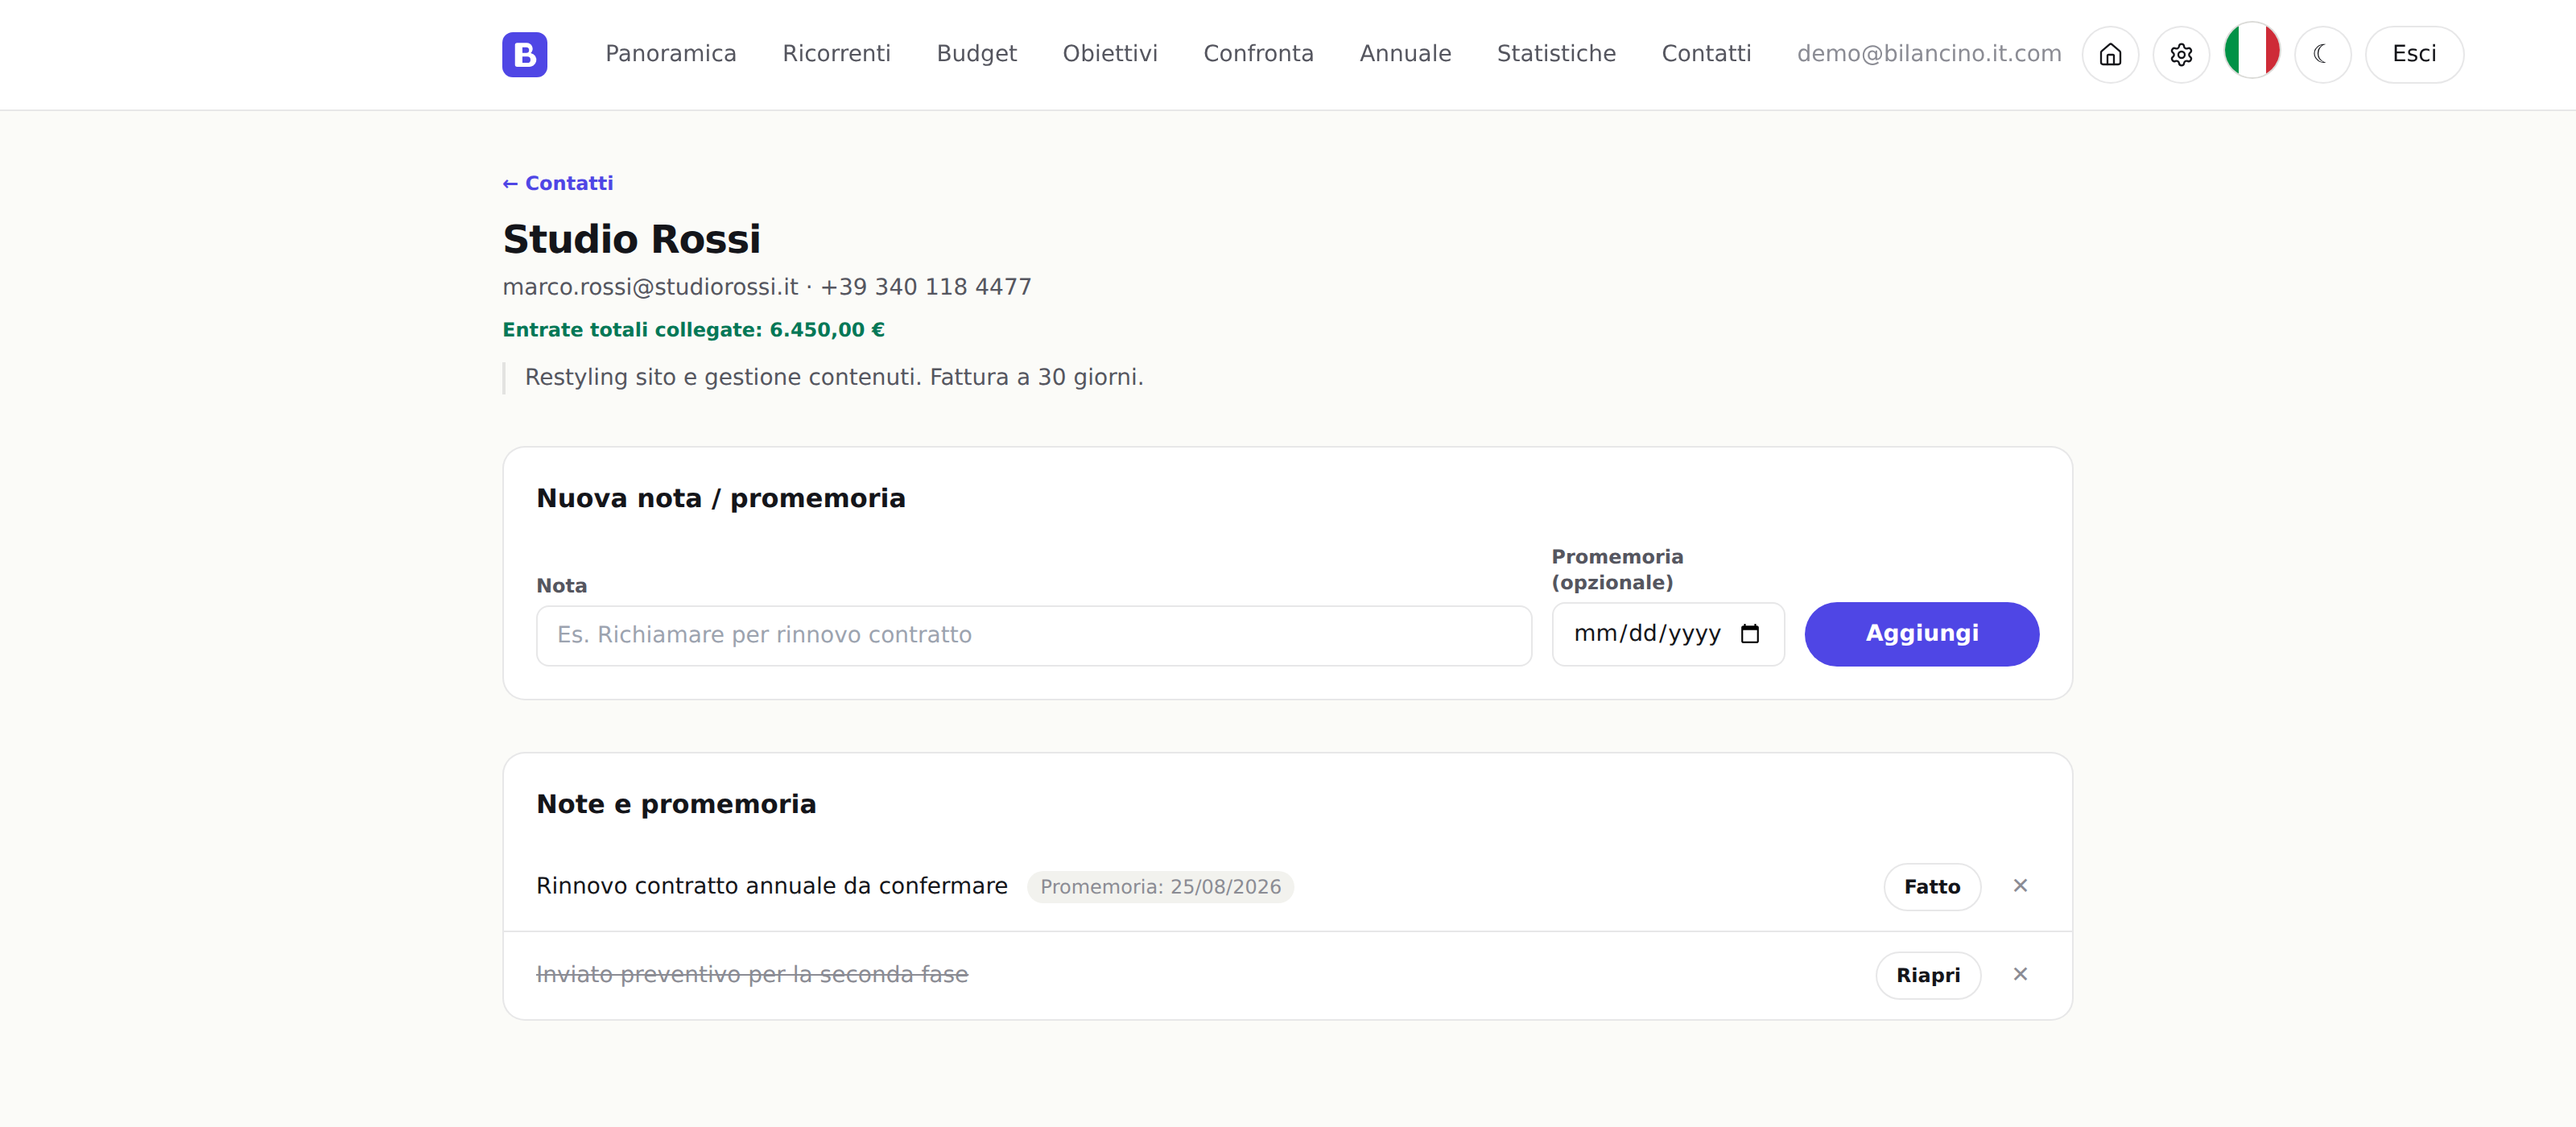
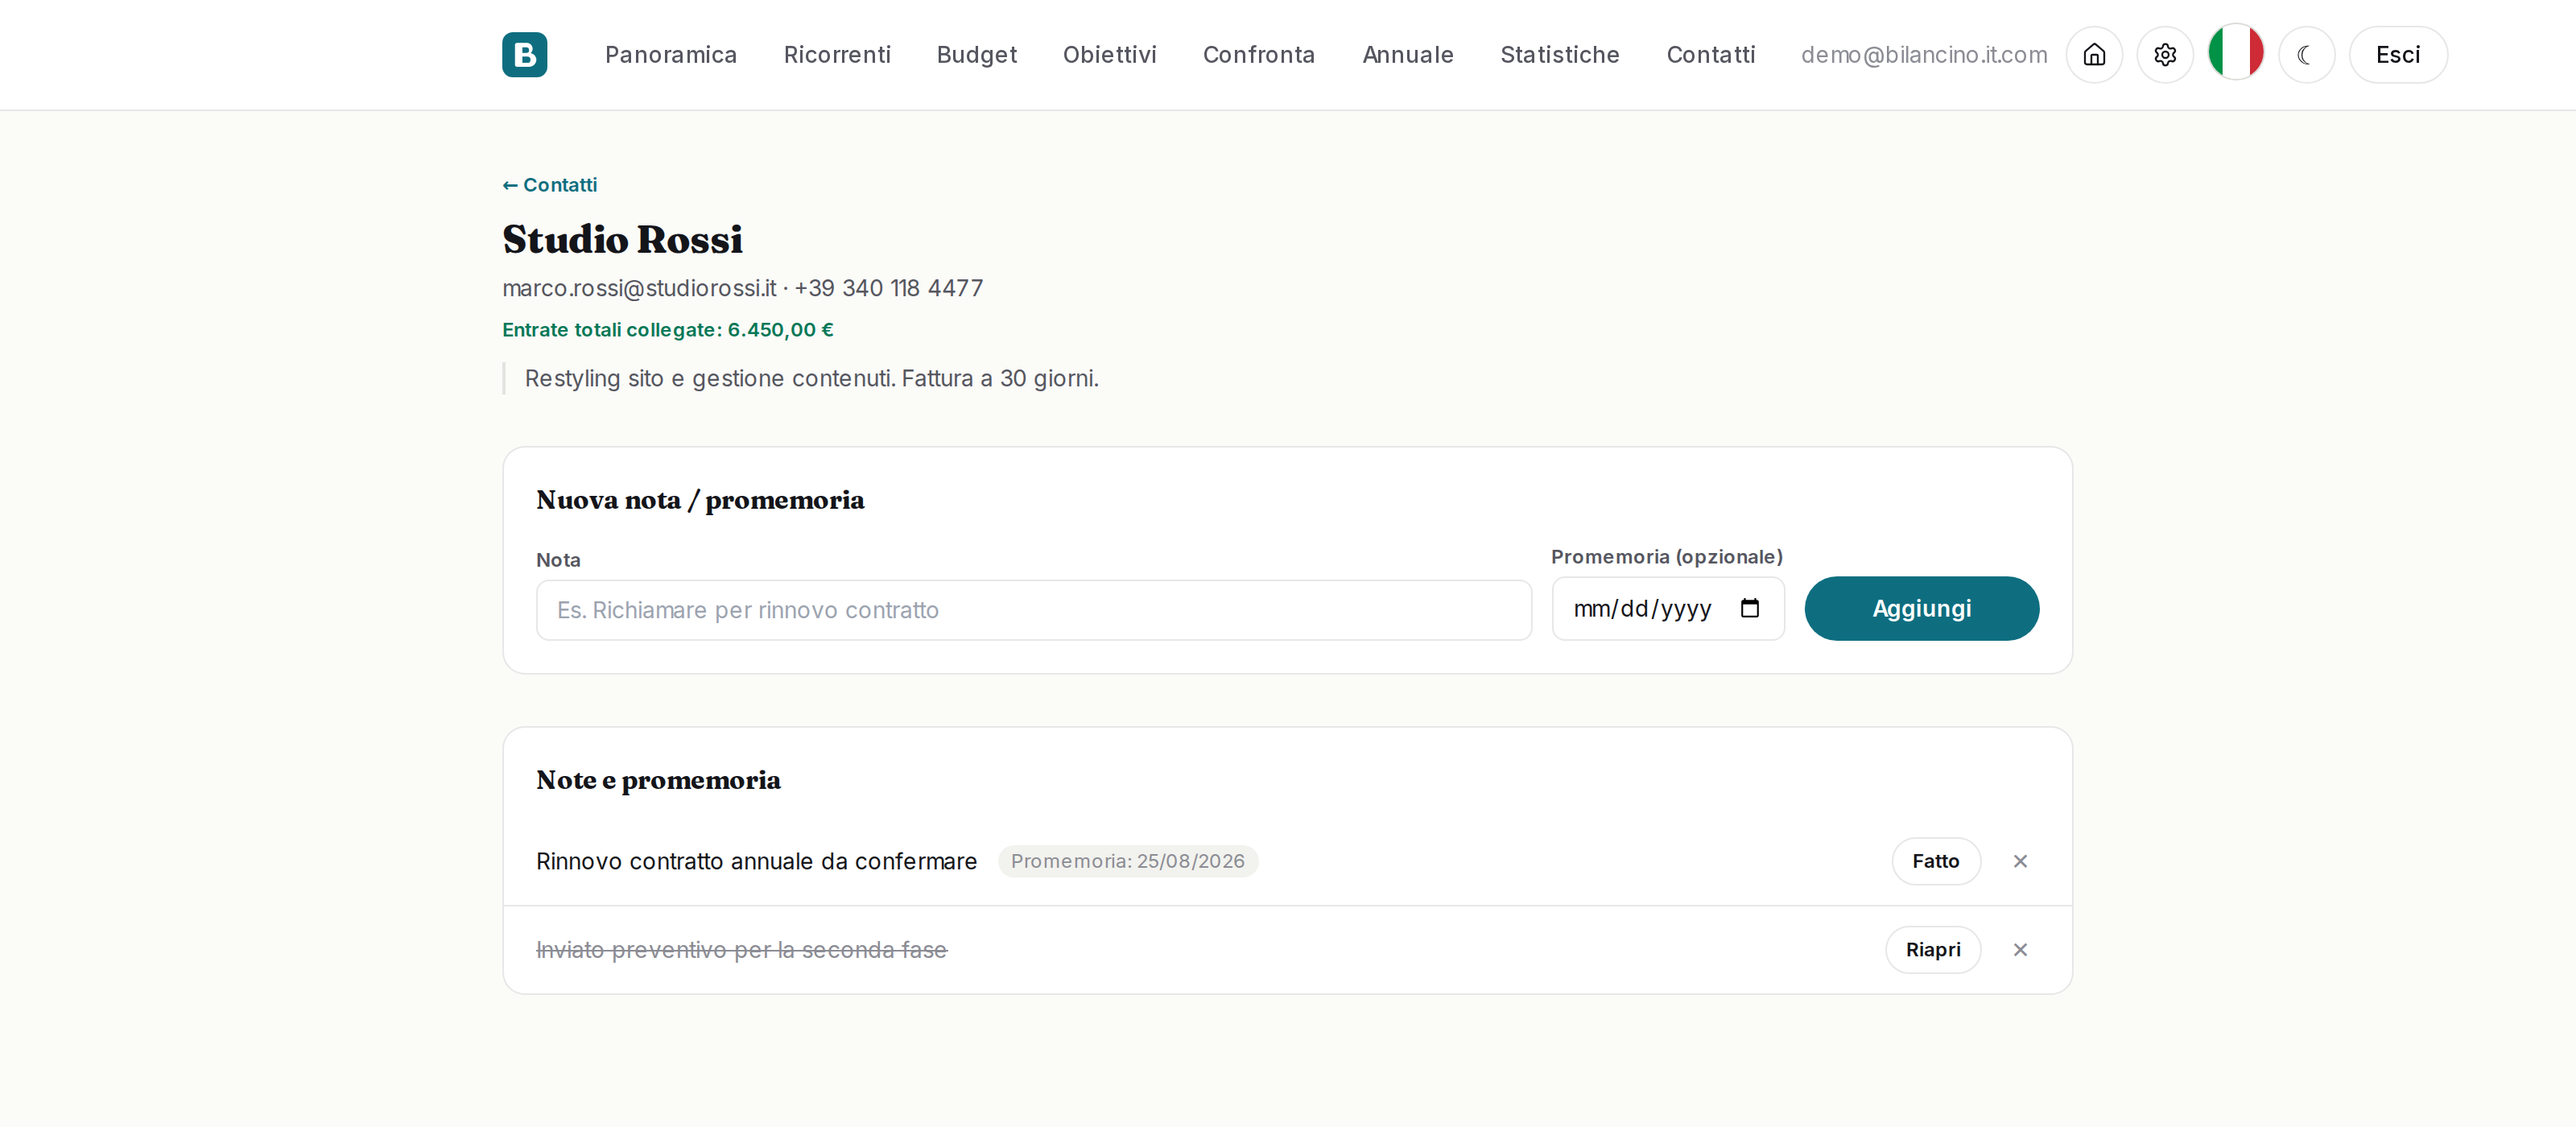
Sceglie un colore e un carattere, e riprende il diario
Il colore d'accento era #4f46e5, cioè esattamente l'indigo-600 del
tema predefinito di Tailwind: quello che resta quando nessuno ne
sceglie uno. Insieme al carattere di sistema, agli angoli arrotondati
uguali ovunque e alle icone nei quadratini, era la parte visiva che
faceva sembrare il sito uscito da uno stampo.

- accento petrolio #0e6e80: contrasto 5,9:1 con il bianco sul bottone
  e 5,7:1 sul fondo crema, entrambi sopra la soglia AA, e sul tema
  scuro va meglio dell'indigo di prima
- titoli in Fraunces, testo in Inter, serviti da next/font
- marchio, favicon, alone della sezione di chiusura e alone del focus
  sui campi seguono la stessa palette
- rigenerate l'immagine social e le tre schermate dell'app, che erano
  state catturate quando l'accento era ancora indigo

La pagina Novità si era fermata al 5 agosto mentre il lavoro
continuava: diciassette giorni di silenzio su una pagina che promette
"esattamente cosa ho fatto e quando". Aggiunta la voce del 22 agosto
con quello che è cambiato davvero in queste modifiche, scritta per chi
usa l'app e non per chi legge il codice.

Claude-Session: https://claude.ai/code/session_01Kjfm8L7n1iYtA5Pq87wJmq

diff --git a/lib/i18n/dictionaries/it.ts b/lib/i18n/dictionaries/it.ts
@@ -765,9 +765,21 @@ const it = {
     heroTitle: "Cosa è cambiato, aggiornamento dopo aggiornamento.",
     heroBody:
       "Sviluppo Bilancino da solo, quindi qui trovi esattamente cosa ho fatto e quando: niente numeri di versione gonfiati, solo le cose che sono cambiate davvero.",
-    lastUpdated: "5 agosto 2026",
+    lastUpdated: "22 agosto 2026",
     lastUpdatedPrefix: "Ultimo aggiornamento:",
     entries: [
+      {
+        date: "22 agosto 2026",
+        items: [
+          "Nuovo marchio, ridisegnato in formato vettoriale: resta nitido a qualunque dimensione, dall'icona nella scheda del browser all'intestazione.",
+          "Le immagini del sito erano generate al computer e si vedeva: lo schermo del portatile mostrava testo illeggibile e cifre inventate. Ora al loro posto ci sono schermate vere dell'app, catturate su un account dimostrativo con dati di esempio.",
+          "L'anteprima che compare quando condividi un link di Bilancino è stata rifatta con il grafico e i colori del prodotto, senza fotografie.",
+          "Il sito adesso dice chi c'è dietro: nome in fondo a ogni pagina, una sezione dedicata su Chi sono e la firma sulle guide, che prima risultavano scritte da un'organizzazione senza nome.",
+          "Riscritti i testi di tutto il sito. C'era una costruzione ripetuta quasi trenta volte, del tipo \"questo, non quello\", che a forza di tornare suonava come un tic. Il contenuto è lo stesso, dette in modo più piano.",
+          "Corretto il saluto nella Panoramica: mostrava la parte prima della @ della tua email invece del nome che avevi indicato registrandoti.",
+          "Sistemati due dettagli nelle schermate di esempio: la barra degli indirizzi mostrava un dominio che non esiste, e un movimento dimostrativo portava il nome di una persona reale.",
+        ],
+      },
       {
         date: "5 agosto 2026",
         items: [

diff --git a/lib/i18n/dictionaries/en.ts b/lib/i18n/dictionaries/en.ts
@@ -767,9 +767,21 @@ const en: Dictionary = {
     heroTitle: "What's changed, update after update.",
     heroBody:
       "I build Bilancino solo, so here you'll find exactly what I did and when: no inflated version numbers, just the things that actually changed.",
-    lastUpdated: "August 5, 2026",
+    lastUpdated: "August 22, 2026",
     lastUpdatedPrefix: "Last updated:",
     entries: [
+      {
+        date: "August 22, 2026",
+        items: [
+          "New logo, redrawn as a vector: it stays sharp at any size, from the browser tab icon to the header.",
+          "The site's images were computer-generated and it showed: the laptop screen displayed unreadable text and made-up figures. They've been replaced with real screenshots of the app, captured on a demo account with example data.",
+          "The preview that appears when you share a Bilancino link has been rebuilt from the product's own chart and colours, with no photography.",
+          "The site now says who is behind it: a name at the foot of every page, a dedicated section on the About page, and a byline on the guides, which previously read as written by a nameless organisation.",
+          "Rewrote the copy across the site. One construction came up nearly thirty times, along the lines of \"this, not that\", and at that rate it read like a verbal tic. Same content, said more plainly.",
+          "Fixed the greeting on the Overview: it showed the part of your email before the @ instead of the name you gave when signing up.",
+          "Fixed two details in the example screens: the address bar showed a domain that doesn't exist, and a demo transaction carried a real person's name.",
+        ],
+      },
       {
         date: "August 5, 2026",
         items: [

diff --git a/app/layout.tsx b/app/layout.tsx
@@ -1,10 +1,16 @@
 import type { Metadata } from "next";
+import { Inter, Fraunces } from "next/font/google";
 import { Analytics } from "@vercel/analytics/next";
 import "./globals.css";
 import { ThemeProvider } from "@/components/theme-provider";
 import { AnalyticsConsent } from "@/components/analytics-consent";
 import { getLocale } from "@/lib/i18n/get-locale";
 import { dictionaryFor } from "@/lib/i18n/get-dictionary";
+
+// Il sito non sceglieva un carattere: si affidava allo stack di sistema, che
+// rende diverso su ogni computer. Inter per il testo, Fraunces per i titoli.
+const inter = Inter({ subsets: ["latin"], variable: "--font-inter", display: "swap" });
+const fraunces = Fraunces({ subsets: ["latin"], variable: "--font-fraunces", display: "swap" });
 
 export function generateMetadata(): Metadata {
   const locale = getLocale();
@@ -53,7 +59,7 @@ export default function RootLayout({
   const locale = getLocale();
   const t = dictionaryFor(locale);
   return (
-    <html lang={locale} suppressHydrationWarning>
+    <html lang={locale} className={`${inter.variable} ${fraunces.variable}`} suppressHydrationWarning>
       <body>
         <ThemeProvider attribute="class" defaultTheme="system" enableSystem>
           {children}

diff --git a/app/globals.css b/app/globals.css
@@ -40,6 +40,7 @@
 body {
   background: #fbfbf8;
   color: #14151a;
+  font-family: var(--font-inter), system-ui, sans-serif;
 }
 
 .dark body {
@@ -66,10 +67,10 @@ textarea:focus {
 
 @keyframes field-focus-pulse {
   0% {
-    box-shadow: 0 0 0 0 rgba(79, 70, 229, 0.35);
+    box-shadow: 0 0 0 0 rgba(14, 110, 128, 0.35);
   }
   100% {
-    box-shadow: 0 0 0 8px rgba(79, 70, 229, 0);
+    box-shadow: 0 0 0 8px rgba(14, 110, 128, 0);
   }
 }
 
@@ -204,7 +205,15 @@ main > * {
    fanno lo stesso lavoro senza scaricare 24 KB di immagine. */
 .cta-backdrop {
   background:
-    radial-gradient(70% 120% at 18% 0%, rgba(79, 70, 229, 0.55) 0%, transparent 60%),
+    radial-gradient(70% 120% at 18% 0%, rgba(14, 110, 128, 0.6) 0%, transparent 60%),
     radial-gradient(60% 110% at 92% 100%, rgba(5, 150, 105, 0.28) 0%, transparent 62%),
     #14151a;
+}
+
+/* I titoli hanno un carattere proprio: prima il sito non ne sceglieva
+   nessuno e si affidava allo stack di sistema, che cambia da computer a
+   computer e non dice niente di chi lo usa. */
+h1, h2 {
+  font-family: var(--font-fraunces), Georgia, serif;
+  font-optical-sizing: auto;
 }

diff --git a/tailwind.config.ts b/tailwind.config.ts
@@ -9,15 +9,22 @@ const config: Config = {
         ink: "#14151a",
         "ink-secondary": "#55565f",
         "ink-muted": "#8b8c94",
+        // Petrolio. Prima qui c'era #4f46e5, che è esattamente l'indigo-600
+        // del tema predefinito di Tailwind: il colore che resta quando nessuno
+        // ne sceglie uno, e che si riconosce in ogni progetto generato.
         accent: {
-          DEFAULT: "#4f46e5",
-          hover: "#4338ca",
-          soft: "#ecebfc",
+          DEFAULT: "#0e6e80",
+          hover: "#0b5766",
+          soft: "#e1eff2",
         },
         surface: "#ffffff",
         "surface-alt": "#f2f2ee",
         bg: "#fbfbf8",
         border: "rgba(20,21,26,0.10)",
+      },
+      fontFamily: {
+        sans: ["var(--font-inter)", "system-ui", "sans-serif"],
+        display: ["var(--font-fraunces)", "Georgia", "serif"],
       },
       borderRadius: {
         xl: "14px",
